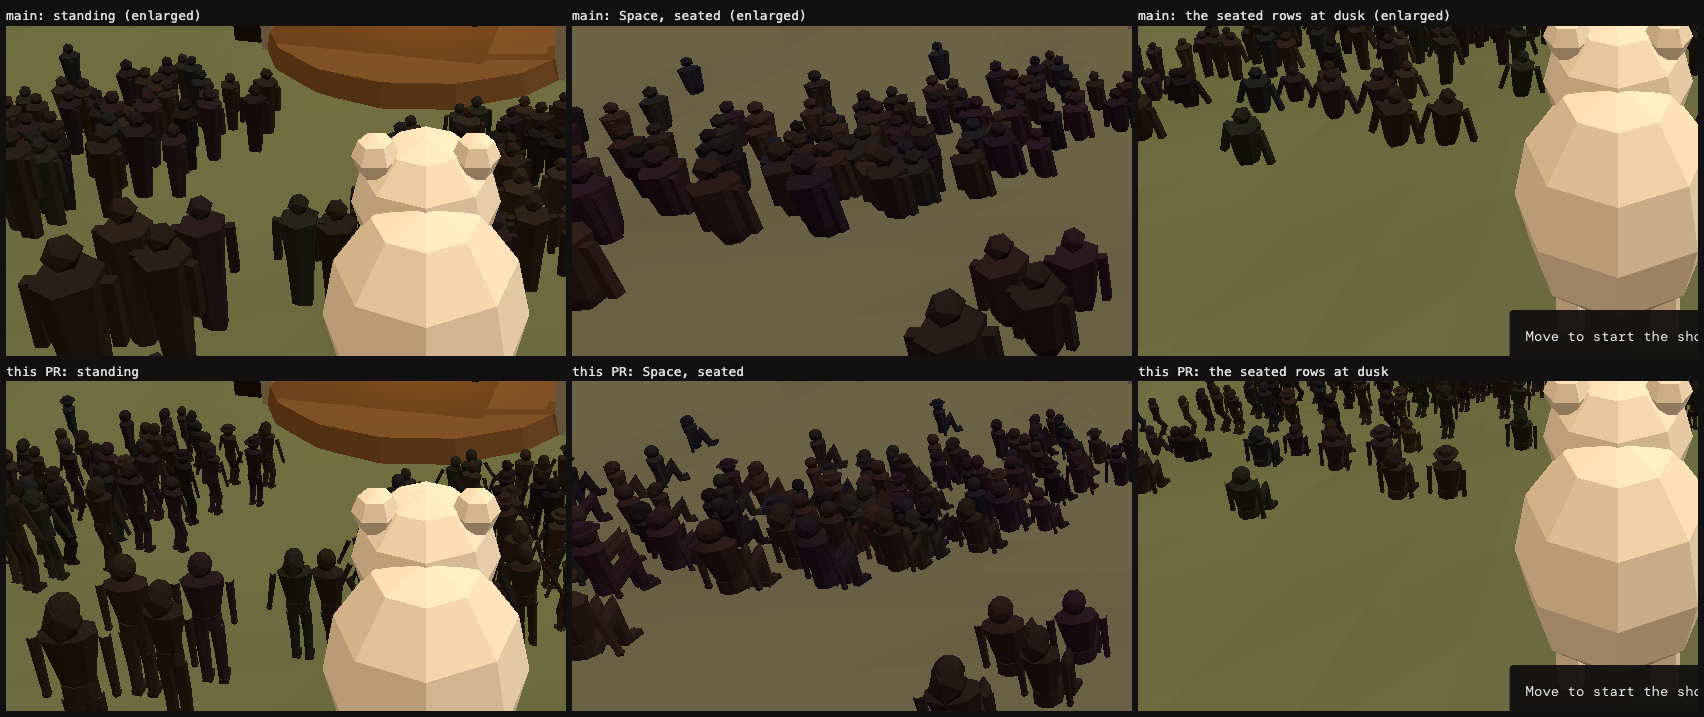
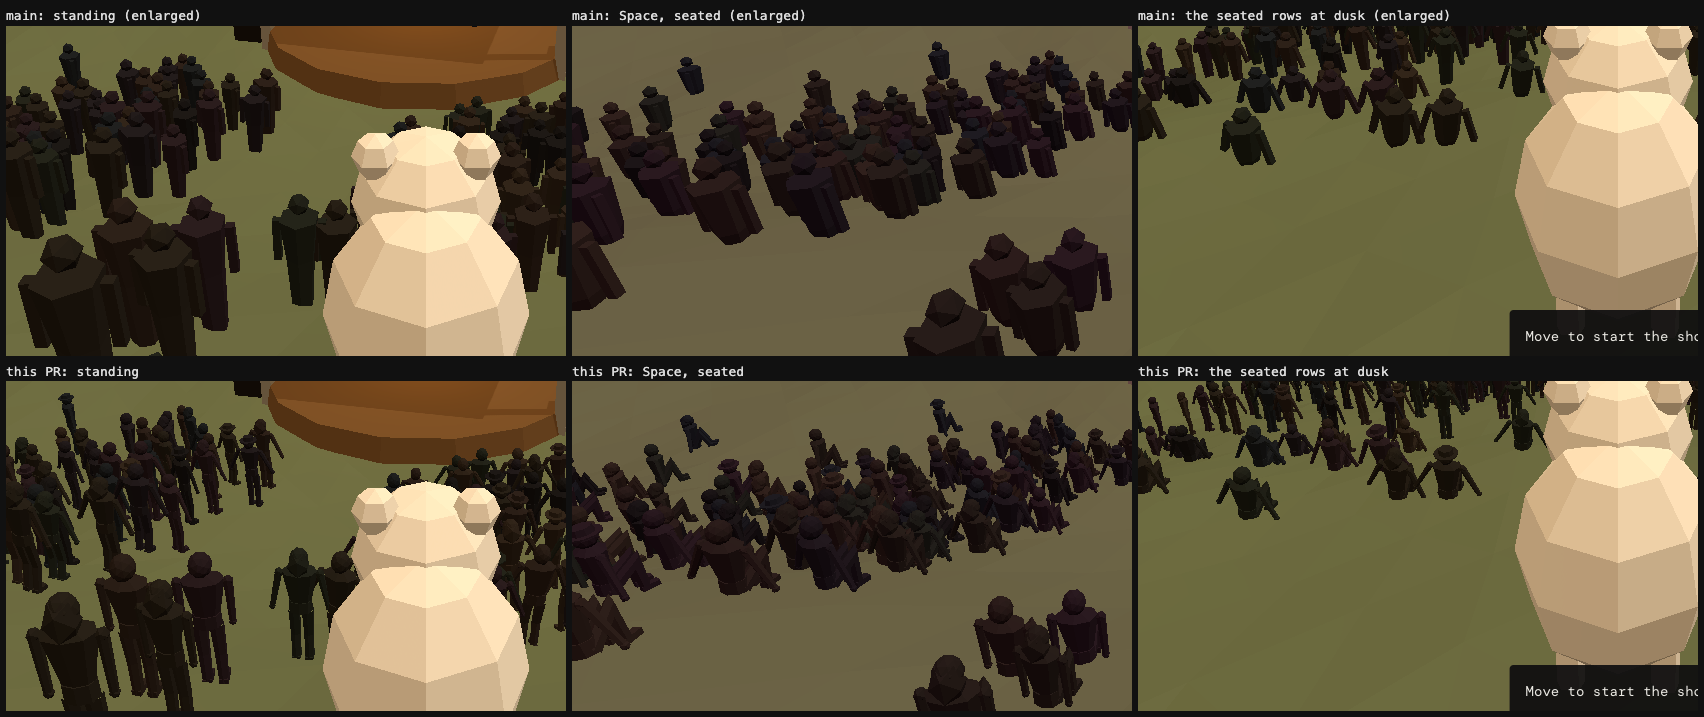
screenshots: the crowd's figures at the head that gives them shoulders

diff --git a/documentation/screenshots/dusk-to-dawn/README.md b/documentation/screenshots/dusk-to-dawn/README.md
@@ -10,7 +10,7 @@ Everything here was drawn by headless Chromium on a Mac's GPU, at the top rung o
 | `night-phone.png` | the same four hours on a phone, main above the night | the same |
 | `recording/desktop-crowd-night-passing.webm`, `recording/phone-crowd-night-passing.webm` | the night passing as the show clock is moved from set 1 to Drums to the encore, a hold at each | #163's preview at `b1c1cd4` |
 | `bears.png`, `bears-phone.png` | the bears on main and in #164 | #164's preview at `0d0ec9e` |
-| `crowd.png` | the crowd's figures on main and in #165, standing, seated in Space, and the seated rows at dusk; each an enlarged crop | #165's preview at `b6d0e5a` |
+| `crowd.png` | the crowd's figures on main and in #165, standing, seated in Space, and the seated rows at dusk; each an enlarged crop | #165's preview at `1a59734` |
 | `shelves-desktop.png`, `shelves-phone.png` | the HUD's three shelves out and away | #166's preview at `e5d510c` |
 
 ## Logs
